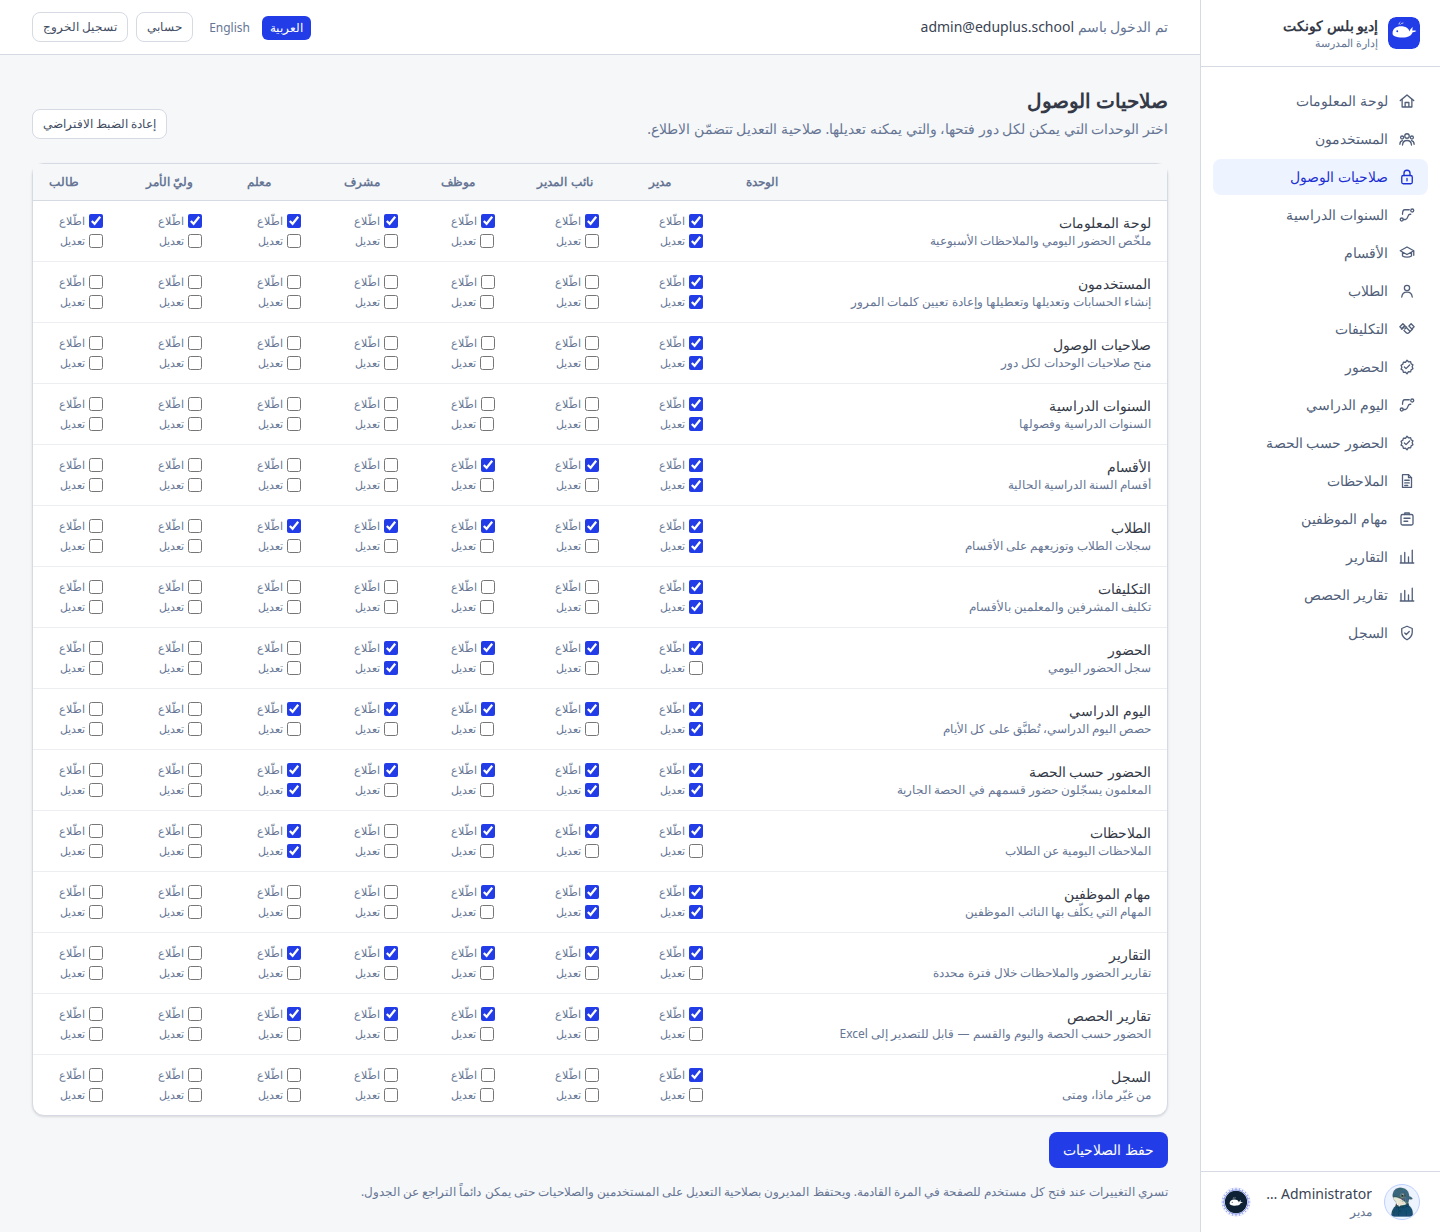
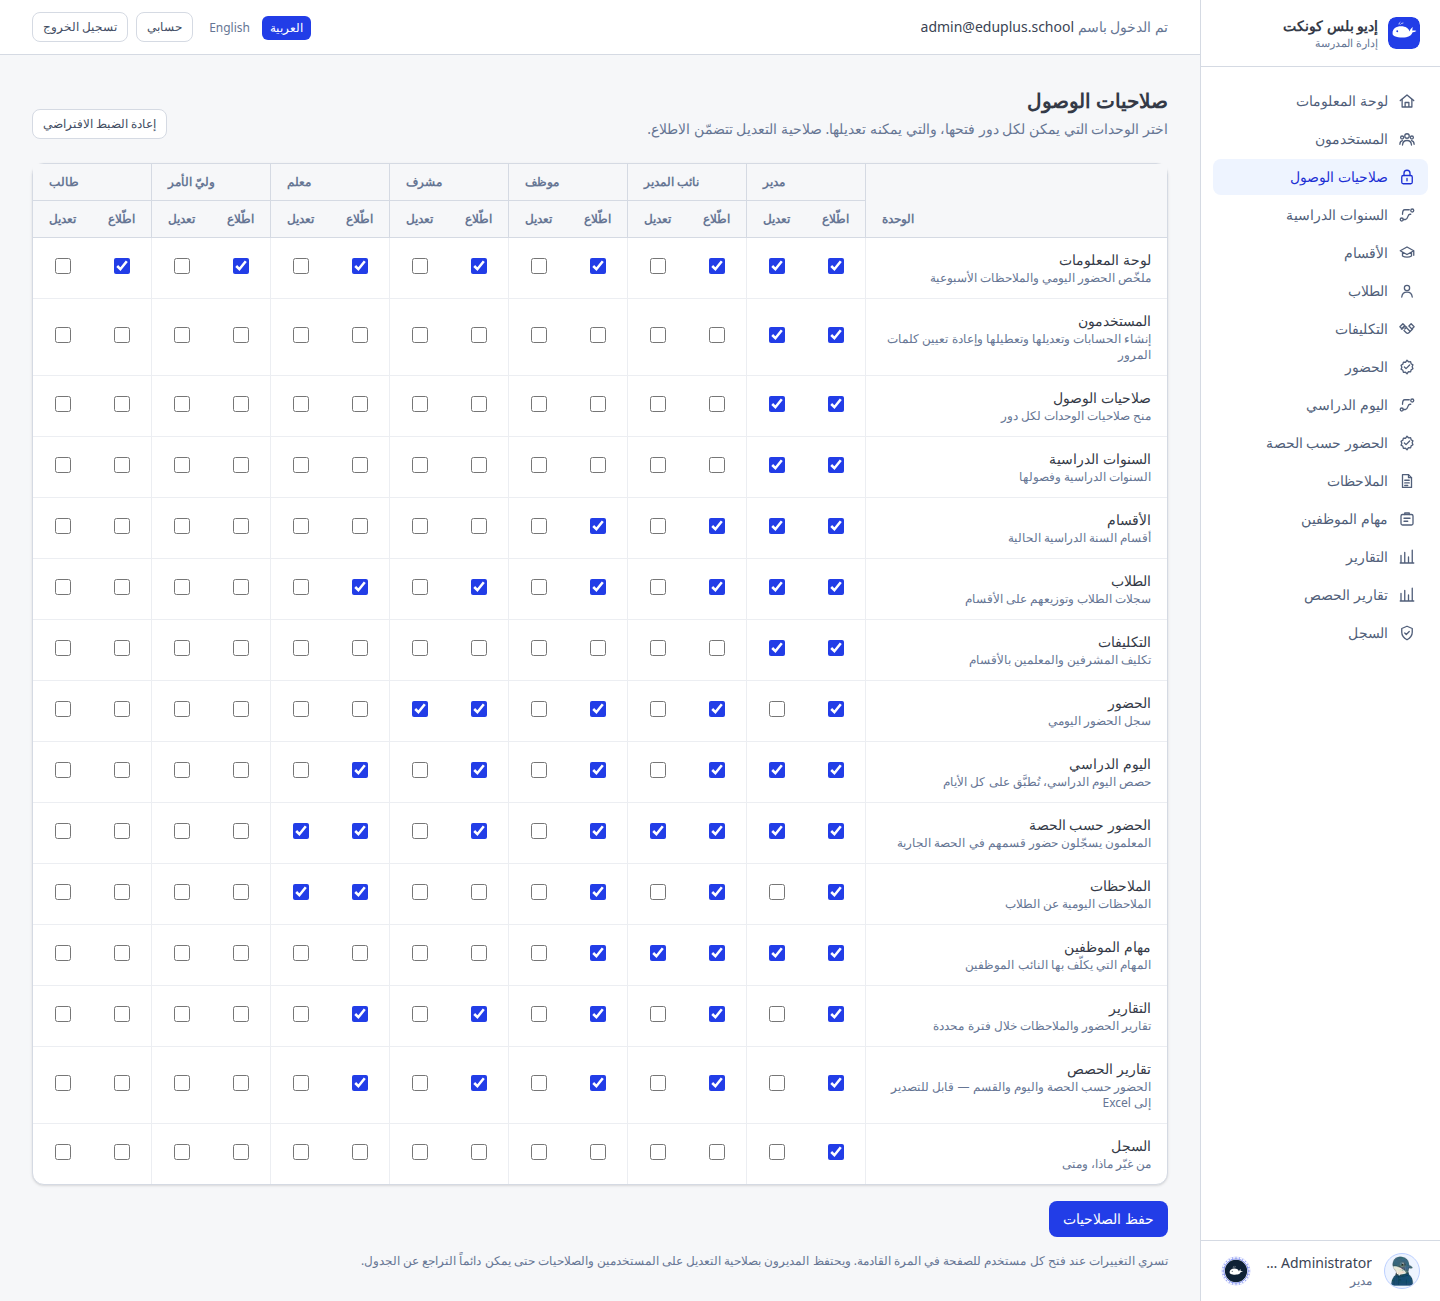
Access rights: actually centre the column headers
.table thead th sets text-left through @apply, which beats a text-center
utility on the same element — so the role headers were left-aligned over
their column pair however they were labelled. Centring a block inside the
cell wins without reaching for !important.

diff --git a/src/app/(app)/access/page.tsx b/src/app/(app)/access/page.tsx
@@ -66,20 +66,23 @@ export default async function AccessPage() {
                     <th
                       key={role}
                       colSpan={2}
-                      className="border-s border-ink-200 text-center"
+                      className="border-s border-ink-200"
                     >
-                      {t(`role.${role}`)}
+                      {/* Centred on a block inside the cell: `.table thead th`
+                          sets text-left through @apply, which wins over a
+                          text-center utility on the same element. */}
+                      <div className="text-center">{t(`role.${role}`)}</div>
                     </th>
                   ))}
                 </tr>
                 <tr>
                   {ROLES.map((role) => (
                     <Fragment key={role}>
-                      <th className="w-14 border-s border-ink-200 px-0 pb-2 pt-0 text-center text-[10px] font-normal normal-case tracking-normal">
-                        {t("acc.view")}
+                      <th className="w-14 border-s border-ink-200 px-0 pb-2 pt-0 text-[10px] font-normal normal-case tracking-normal">
+                        <div className="text-center">{t("acc.view")}</div>
                       </th>
-                      <th className="w-14 px-0 pb-2 pt-0 text-center text-[10px] font-normal normal-case tracking-normal">
-                        {t("acc.edit")}
+                      <th className="w-14 px-0 pb-2 pt-0 text-[10px] font-normal normal-case tracking-normal">
+                        <div className="text-center">{t("acc.edit")}</div>
                       </th>
                     </Fragment>
                   ))}
